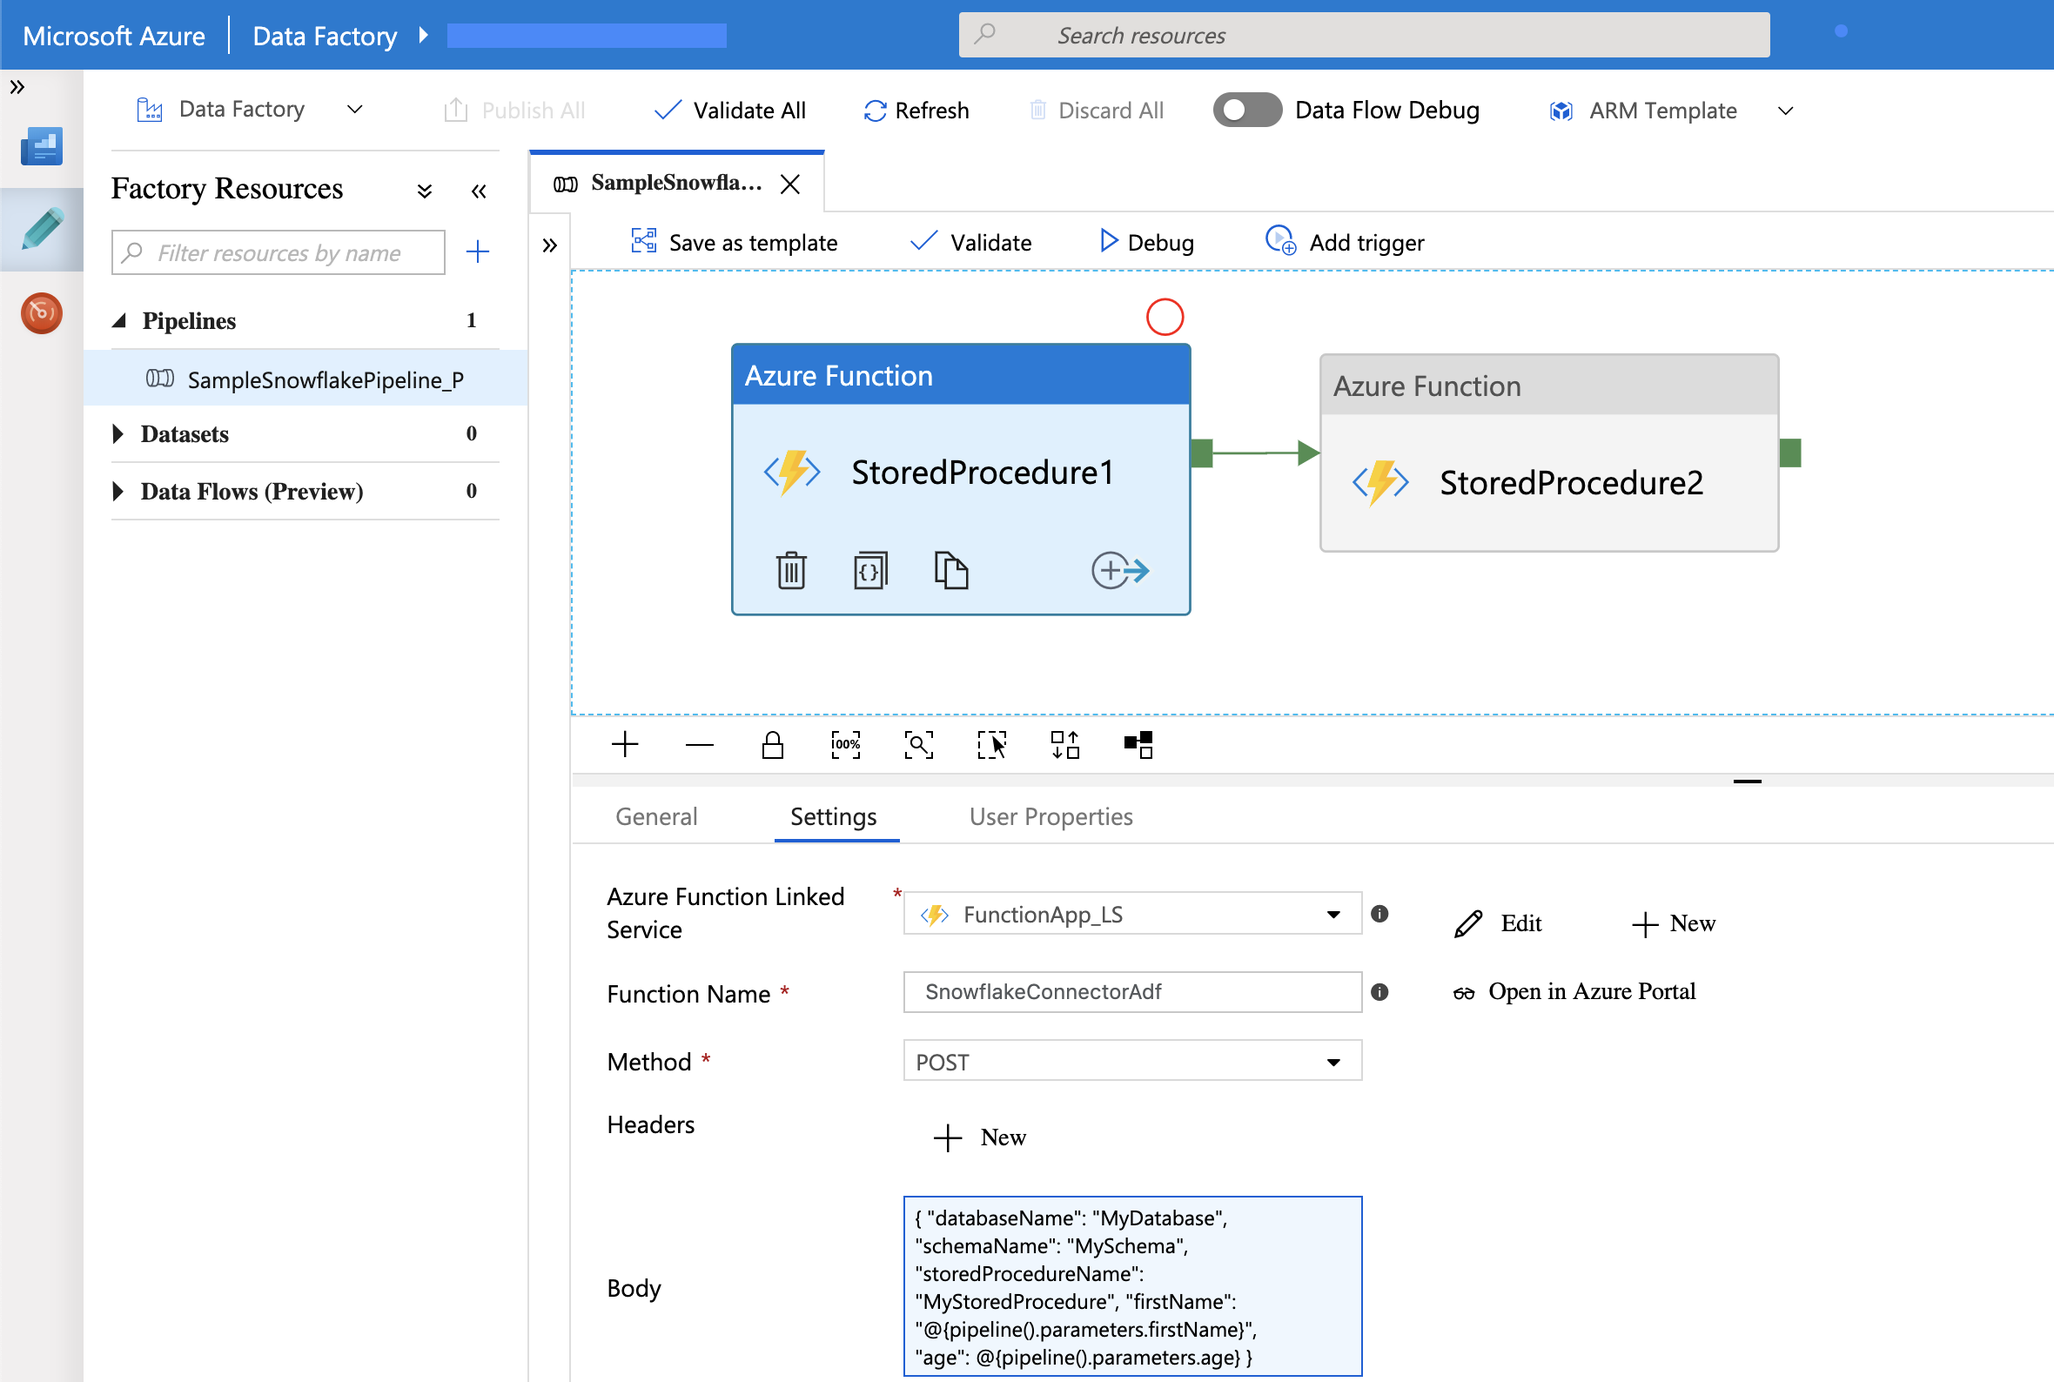
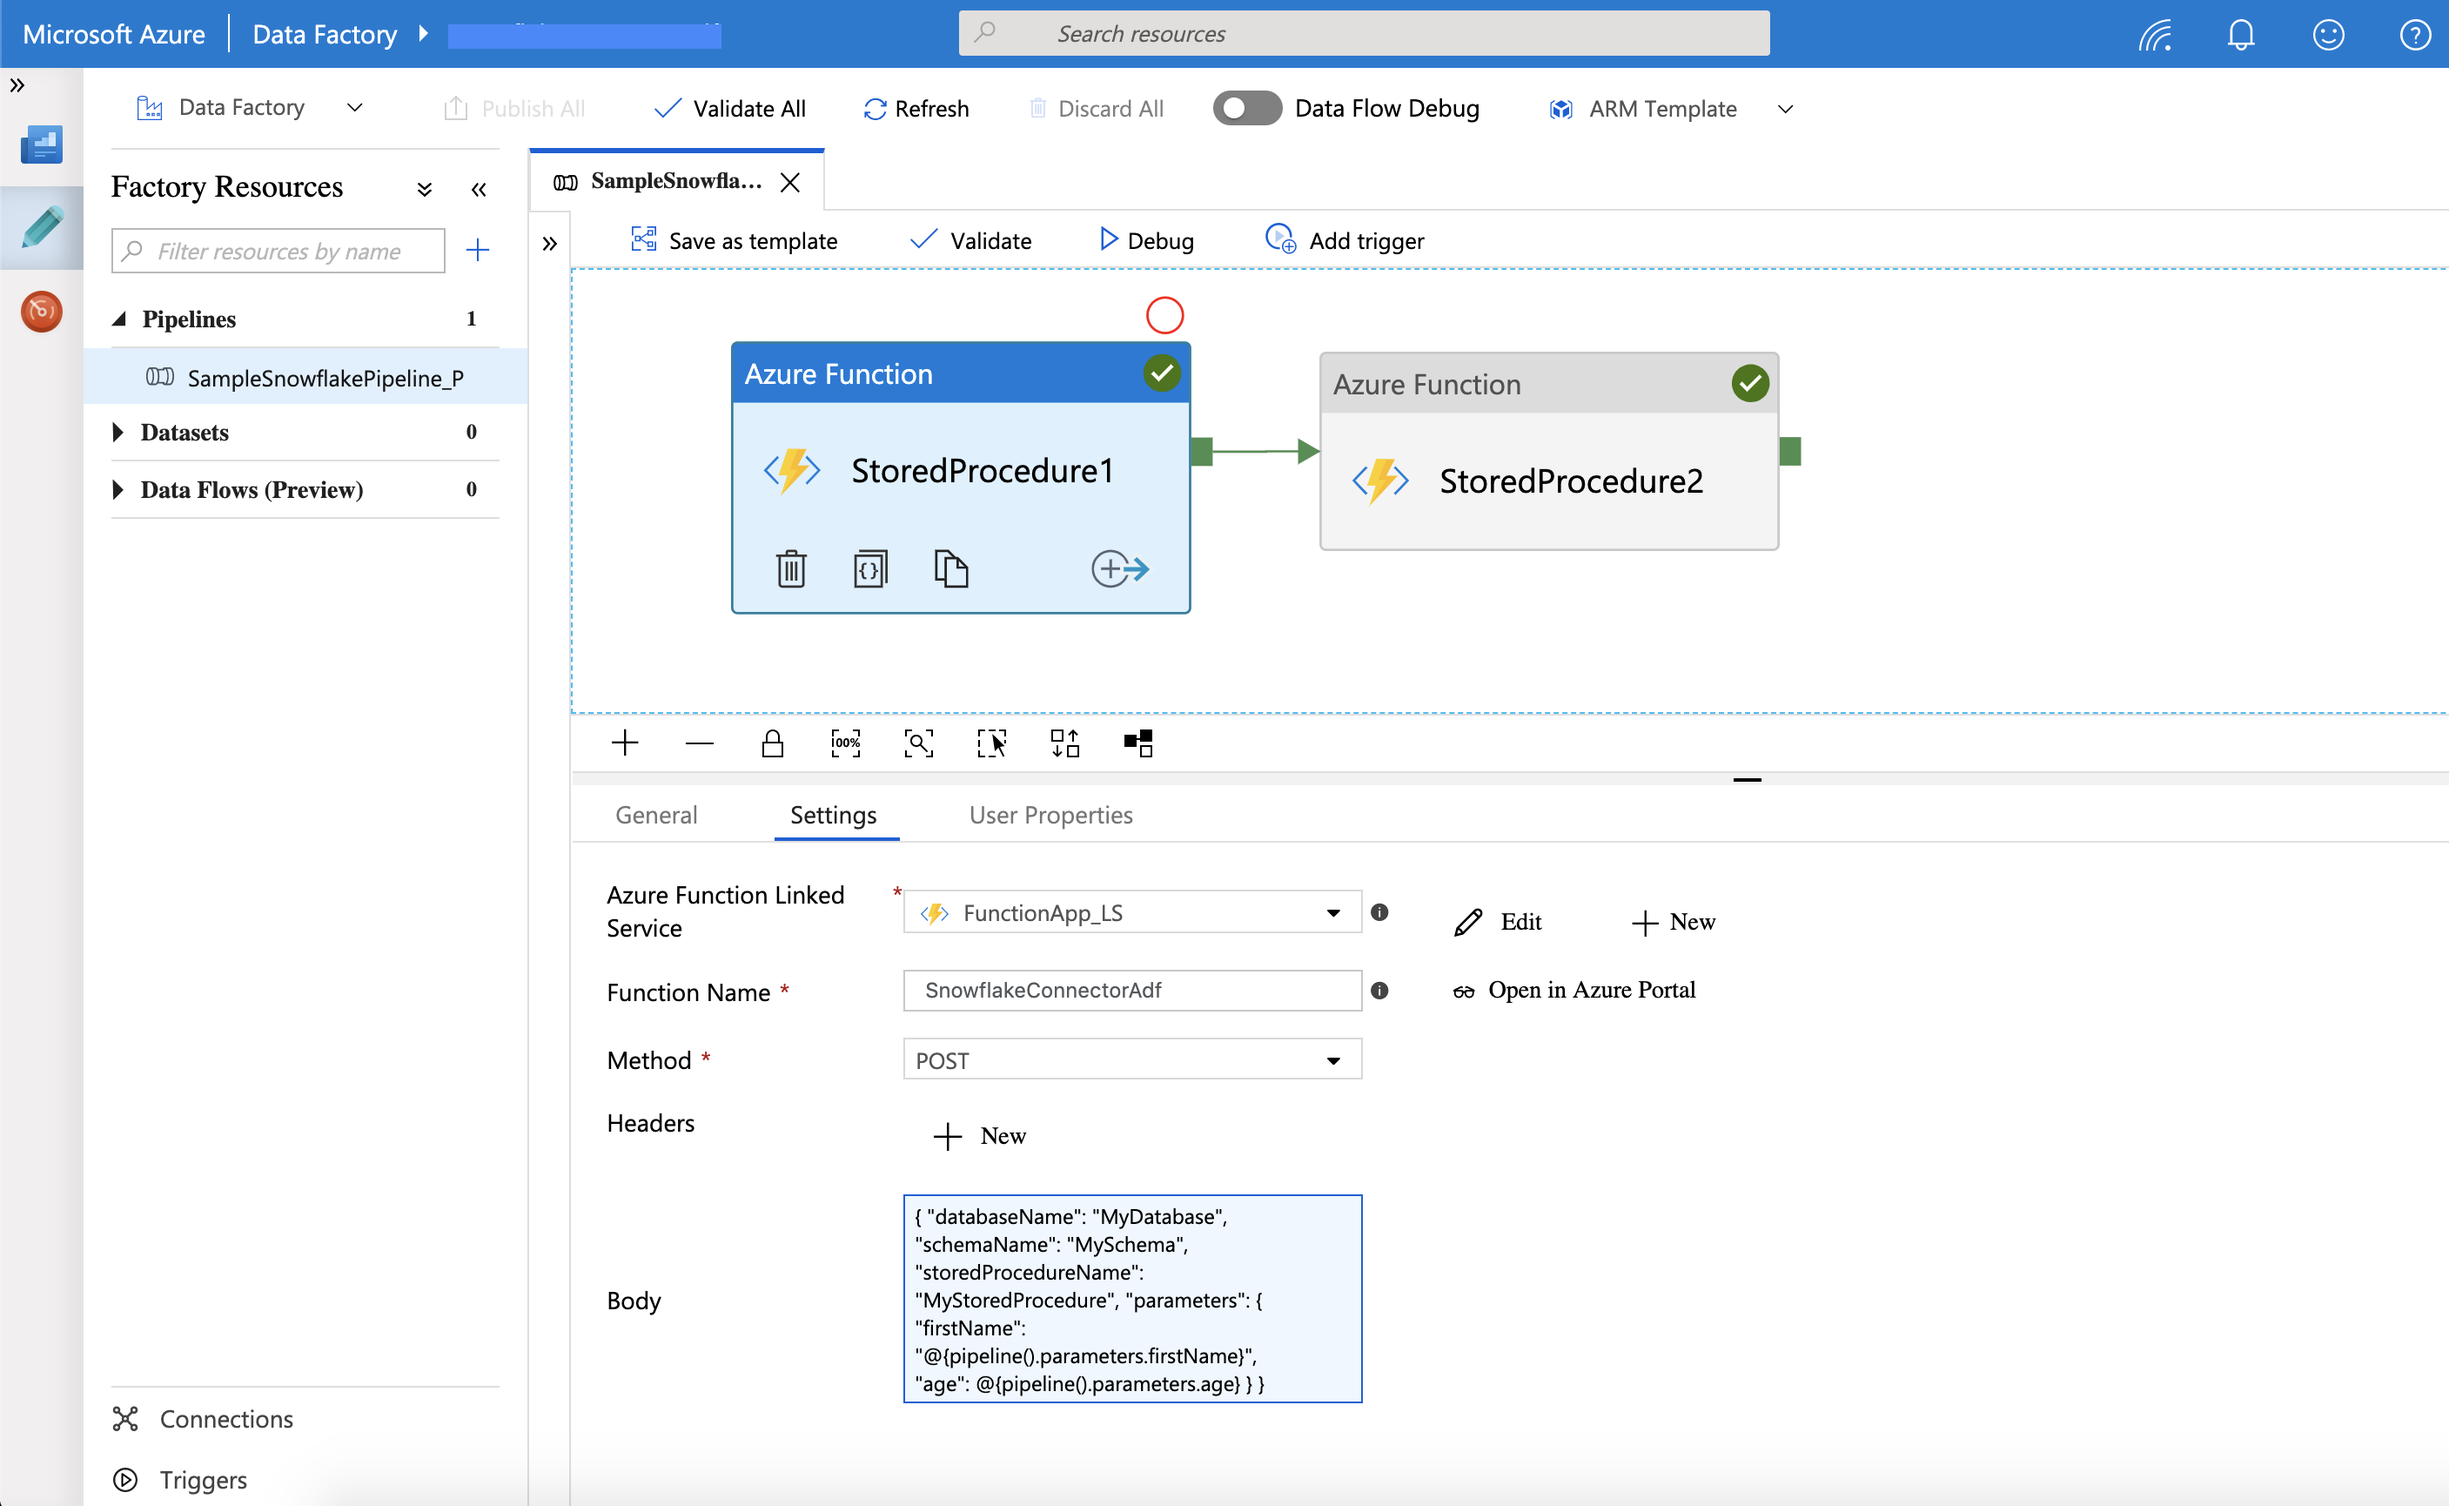
Updated function to split queries on semicolon and pass parameters via the parameters JSON object

diff --git a/SnowflakeConnectorAdf.cs b/SnowflakeConnectorAdf.cs
@@ -69,9 +69,13 @@ namespace Snowflake.Connector
             // Get the SQL query to execute
             Task<string> blobReadTask = readContentFromBlobAsync(log, storageAccountConnectionString, storageAccountContainerName, storageAccountBlobFilePath);
             string sqlText = blobReadTask.GetAwaiter().GetResult();
+            sqlText = sqlText.Trim();
 
-            // Replace all parameter placeholders
-            sqlText = replaceSqlParameterPlaceholders(sqlText, requestBody);
+            // Replace all parameter placeholders, if they've been defined
+            if (requestBody.ContainsKey("parameters"))
+            {
+                sqlText = replaceSqlParameterPlaceholders(sqlText, requestBody.parameters);
+            }
 
             // At this point, there should be no more /*Parameter*/ or /*Parameter_With_Quotes*/ values.
             if (sqlText.Contains("/*Parameter*/") || sqlText.Contains("/*Parameter_With_Quotes*/"))
@@ -149,10 +153,11 @@ namespace Snowflake.Connector
         /// <returns>An array of SQL commands</returns>
         private static string[] splitSqlCommands(string sqlText)
         {
-                // Split sqlText on a /*Sql_Query_Separator*/ comment
-                string[] sqlCommands = sqlText.Split(new[] { "/*Sql_Query_Separator*/" }, StringSplitOptions.RemoveEmptyEntries);
+            // Split sqlText on the query separator
+            // If semicolon (;) doesn't work then try using the /*Sql_Query_Separator*/ comment
+            string[] sqlCommands = sqlText.Split(new[] { ";" }, StringSplitOptions.RemoveEmptyEntries);
 
-                return sqlCommands;
+            return sqlCommands;
         }
 
         /// <summary>

diff --git a/README.md b/README.md
@@ -25,8 +25,6 @@ The following is a sample SQL script which this connector treats like a stored p
 ```sql
 SELECT /*Parameter_With_Quotes*/'John'/*firstName*/ AS FIRST_NAME, 'Doe' AS LAST_NAME, 1 AS AGE;
 
-/*Sql_Query_Separator*/
-
 SELECT CONCAT(/*Parameter_With_Quotes*/'John'/*firstName*/, 'Bar') AS OUTPUT_1, /*Parameter*/1/*age*/ + 100 AS OUTPUT_2;
 ```
 
@@ -37,10 +35,13 @@ The connector expects all input to be supplied via the `POST` body. Here is a sa
     "databaseName": "MyDatabase",
     "schemaName": "MySchema",
     "storedProcedureName": "MyStoredProcedure",
-    "firstName": "Foo",
-    "age": 10
+    "parameters": {
+        "firstName": "Foo",
+        "age": 10
+    }
 }
 ```
+
 And in this case the connector would return the following JSON object:
 
 ```json
@@ -66,22 +67,23 @@ SELECT CONCAT(/*Parameter_With_Quotes*/'John'/*firstName*/, 'Bar') AS OUTPUT_1, 
 
 The macro-like syntax is that the parameter to replace always begins with either `/*Parameter_With_Quotes*/` or `/*Parameter*/` (depending on the type of parameter desired). It is then followed with a default value for the parameter and another comment which contains the name of the parameter (which is case sensitive). As you can see `/*Parameter_With_Quotes*/` replaces the value with single quotes while `/*Parameter*/` does not.
 
-The connector expects all parameters to be supplied via the `POST` body. Here is a snippet from `POST` body in the [High Level Overview](#high-level-overview) section above which contains the parameter values:
+The connector expects all parameters to be supplied via the `parameters` JSON object in the `POST` body. Here is a snippet from `POST` body in the [High Level Overview](#high-level-overview) section above which contains the parameter values:
 
 ```json
 {
-    ...
-    "firstName": "Foo",
-    "age": 10
+    "parameters": {
+        "firstName": "Foo",
+        "age": 10
+    }
 }
 ```
 
 These two attributes, `firstName` and `age`, correspond to the placeholders in the SQL query above. This works entirely on a name matching basis, the attribute name in the `POST` body must match the placeholder name in the SQL query exactly (i.e. they are case sensitive).
 
 ### Multiple Queries
-Executing multiple SQL statements in a stored procedure is critical to support non-trival use cases. As of September 2019 the Snowflake API does not support running multiple SQL statements in a single API call. Because of that we need some way to identify the boundaries between queries. Ideally we would parse the script and use the semicolon statement separator for this purpose. But currenlty the connector does not have such parsing logic and relies instead on the following convention.
+Executing multiple SQL statements in a stored procedure is critical to support non-trival use cases. As of September 2019 the Snowflake API does not support running multiple SQL statements in a single API call. Because of that we need to manualy break up the script into each individual statement and run them sequentially. We also need to make sure that we run then in the same Snowflake session so that session scoped variables can be used across queries.
 
-Each query in the script must be separated by the following comment: `/*Sql_Query_Separator*/`
+The connector uses the standard SQL semicolon to identify query boundaries. As such the semicolon is required after each query.
 
 ### Return Values
 Returning values from a stored procedure is critical so that we can pass status and other elements (like row counts) to the caller. To enable return values the connector expects the final query in the script to return a result set with a single row with one or more columns. Here is the second query again from the [High Level Overview](#high-level-overview) above that does just that:
@@ -112,23 +114,24 @@ All "stored procedure" scripts executed by this connector are stored in an Azure
         /<Stored Procedure Name>.sql
 ```
 
-The connector expects all three parameters to be supplied via the `POST` body. Here is a snippet from `POST` body in the [High Level Overview](#high-level-overview) section above which contains the required parameter values:
+The connector expects all three parameters to be supplied via the JSON `POST` body. Here is a snippet from `POST` body in the [High Level Overview](#high-level-overview) section above which contains the required parameter values:
 
 ```json
 {
     "databaseName": "MyDatabase",
     "schemaName": "MySchema",
-    "storedProcedureName": "MyStoredProcedure",
-    ...
+    "storedProcedureName": "MyStoredProcedure"
 }
 ```
 
-The connector builds a blob storage path based off of those values and reads in the corresponding script file. In this case the full path is `/MyDatabase/MySchema/MyStoredProcedure.sql`. You can find the sample [MyStoredProcedure.sql](/Docs/MyStoredProcedure.sql) script in the */Docs* folder of this repo.
+The connector builds a blob storage path based off of those values and reads in the corresponding script file. In this case the full path is `/MyDatabase/MySchema/MyStoredProcedure.sql`. You can find the sample [MyStoredProcedure.sql](/Docs/MyStoredProcedure.sql) script in the `/Docs` folder of this repo.
 
 ## ADF Overview
-Here is an overview of the ADF pipeline created durig the [Setup](#setup) section below:
+This project comes with a sample ADF pipeline which demonstrates how to use this connector within ADF. The sample ADF resources are deployed during the [Setup](#setup) section below and are contained in the [SnowflakeConnectorAdfArmTemplate.json](/Docs/SnowflakeConnectorAdfArmTemplate.json) script in the `/Docs` folder of this repo. Here is a screenshot showing one activity within the sample ADF pipeline:
 
 ![ADF Pipeline Overview](/Docs/Screenshots/adf-pipeline-overview.png?raw=true "ADF Pipeline Overview")
+
+As shown in the screenshot above we use the native `Azure Function` Activity in ADF to interact with the Snowflake connector. The method is `POST` and the body contains both the 
 
 ## Prerequisites
 In order to deploy the connector and associate Azure resources you must have the following:
